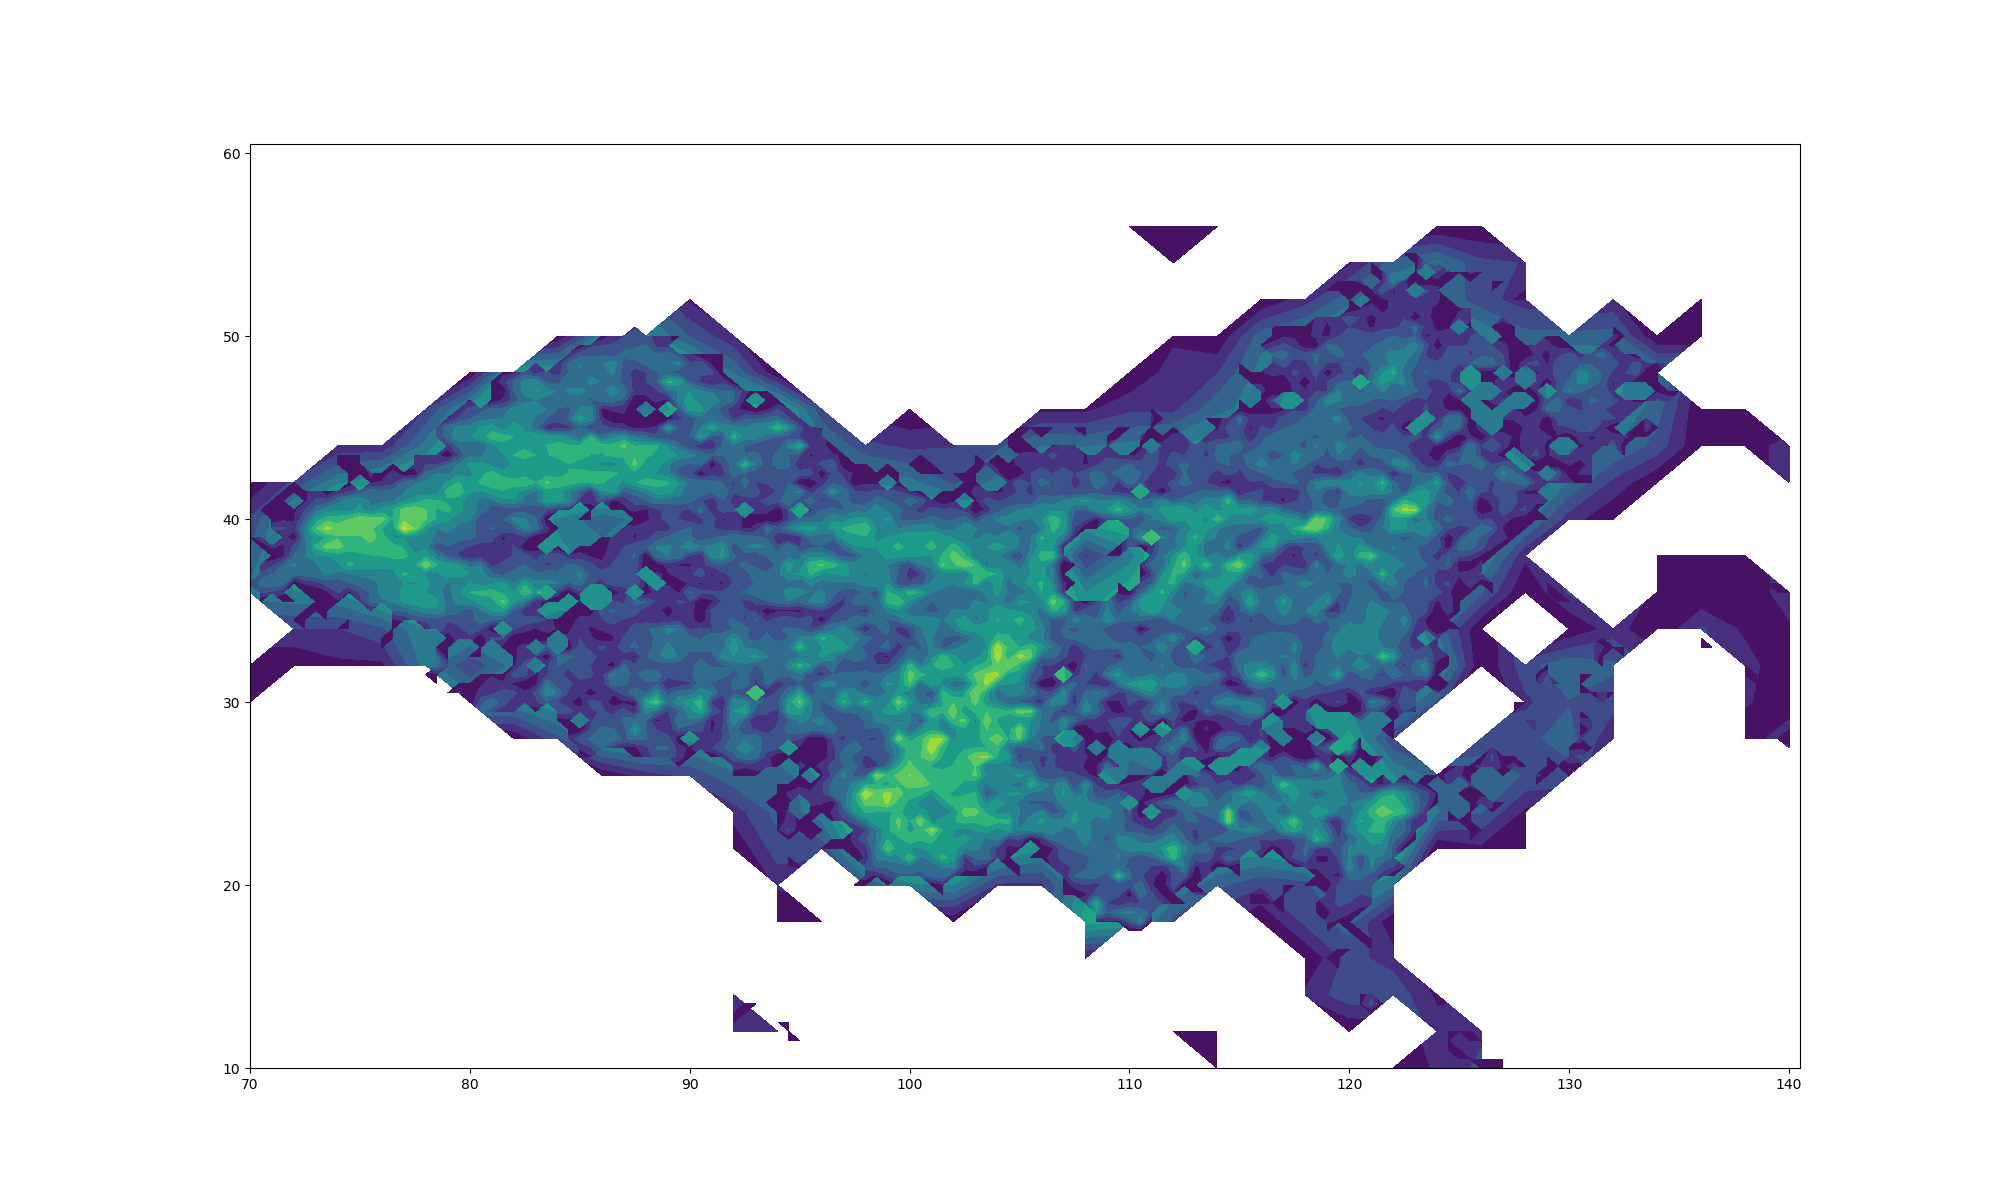
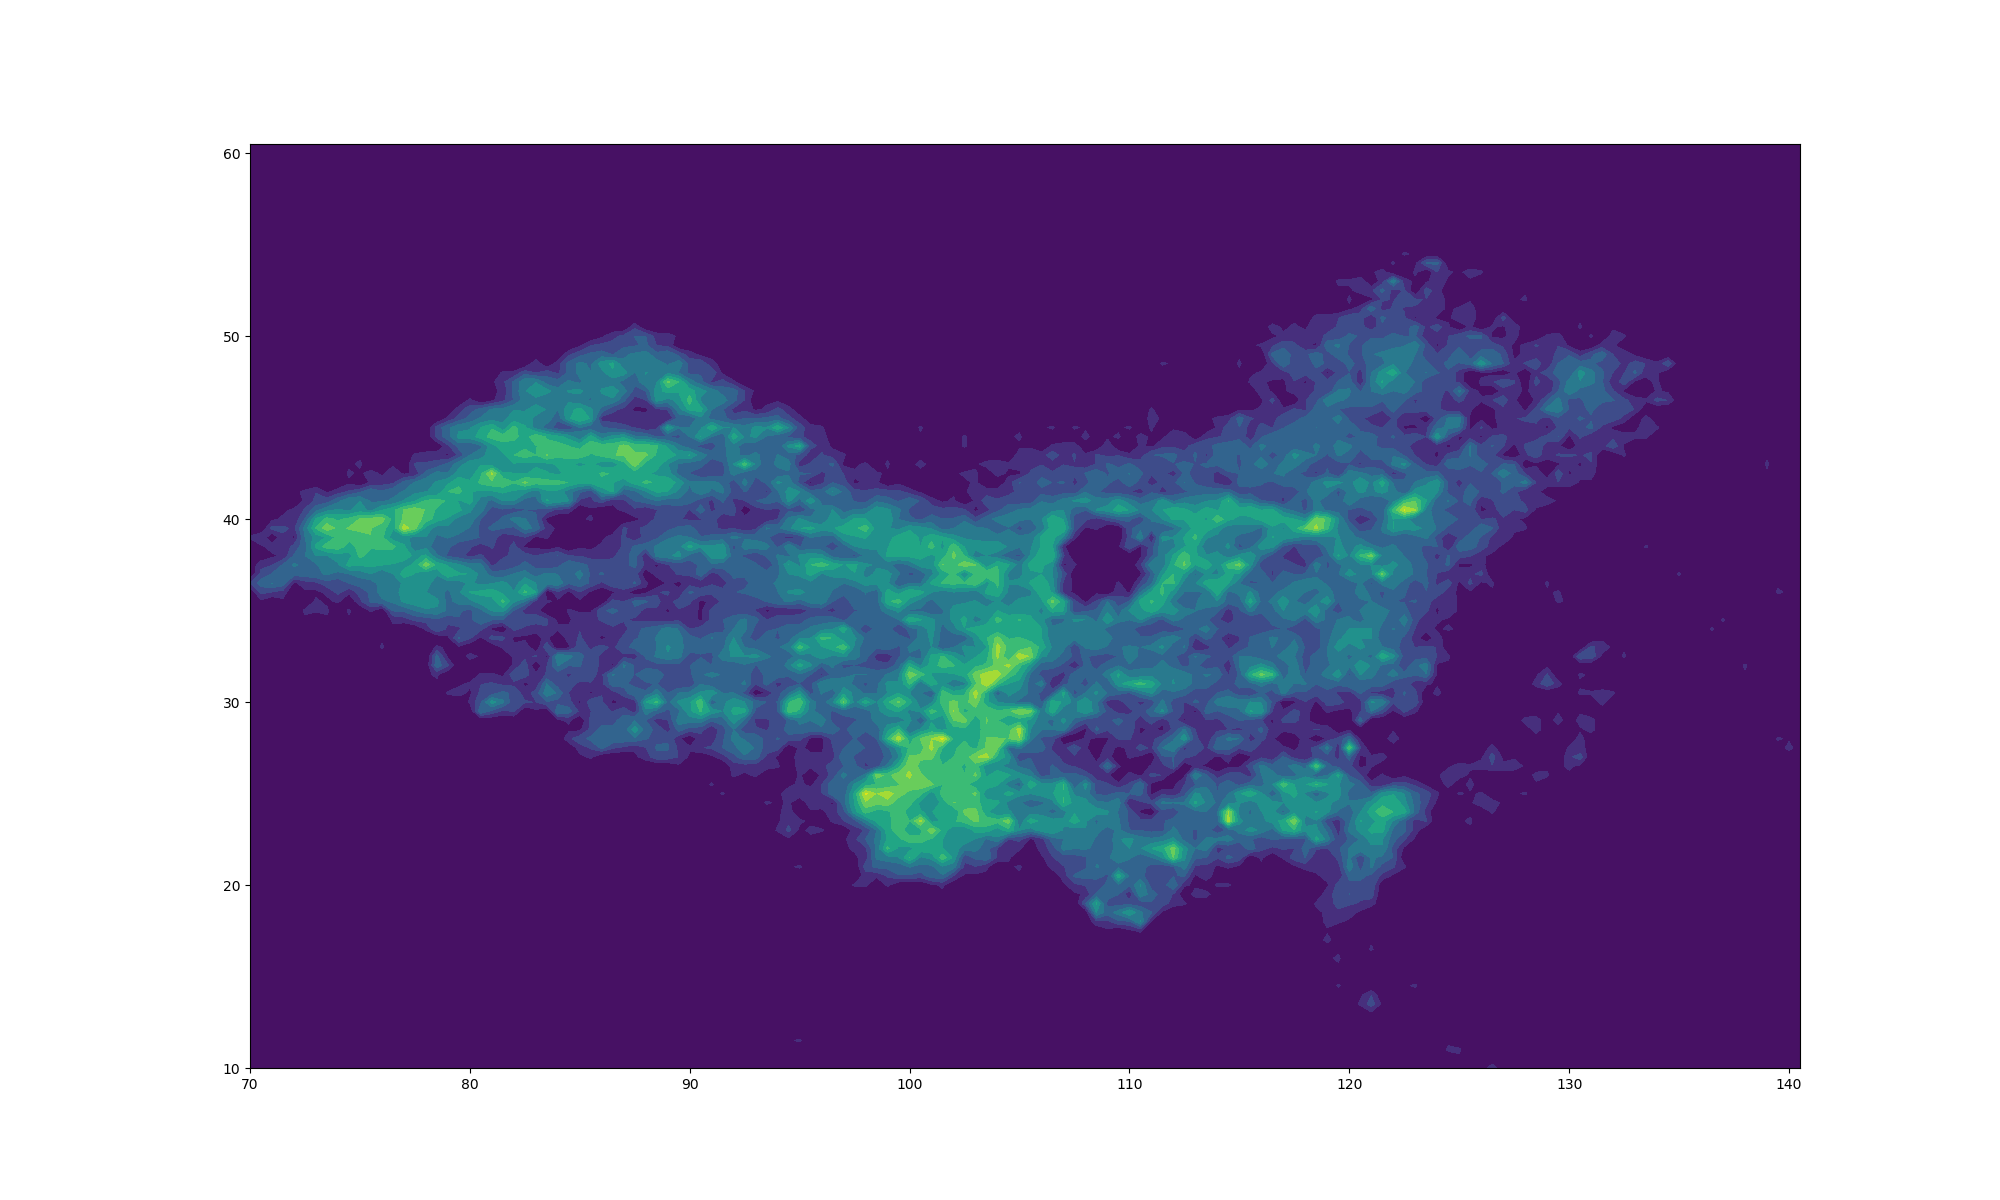
edkit ml heatmap

diff --git a/src/edkit/ml_testing.py b/src/edkit/ml_testing.py
@@ -95,25 +95,65 @@ ml_outFile_mt_1="testing\ml_mt01.png"
 ml.mlDraw_mt__easy(data1b,ml_outFile_mt_1)
 '''
 
+'''
+#t430****
+#sDataPath_t430="E:\_qsync.1\_1"
+#infile_ml_1965=os.path.join(sDataPath_t430,"ml","ml_1965_2018.sfml2")
+#data1=ml.ml_Read_sfml2(infile_ml_1965)
 
-#data1=ml.mlLoad_ml_1965(sDataPath)
-sDataPath_t430="E:\_qsync.1\_1"
-infile_ml_1965=os.path.join(sDataPath_t430,"ml","ml_1965_2018.sfml2")
-data1=ml.ml_Read_sfml2(infile_ml_1965)
+#d30****
+data1=ml.mlLoad_ml_1965(sDataPath)
+
 print(len(data1))
 data1a=ml.mlFilter_sfml2_lonlat(data1,70,140,10,60)
 print(len(data1a))
 
-data1b=ml.mlFilter_sfml2_m(data1a,1.9)
+data1b=ml.mlFilter_sfml2_m(data1a,0.9)
 #print(len(data1b))
 
-ml_outFile_grid_count_1="testing\ml_grid_count20.png"
-ml.mlDraw_Grid_count(data1b,ml_outFile_grid_count_1,70,140,2,10,60,2)
-ml_outFile_grid_count_2="testing\ml_grid_count05.png"
-ml.mlDraw_Grid_count(data1b,ml_outFile_grid_count_2,70,140,0.5,10,60,0.5)
+ml_outFile_grid_count_20="testing\ml_grid_count20.png"
+ml.mlDraw_Grid_count(data1b,ml_outFile_grid_count_20,70,140,2,10,60,2)
+ml_outFile_grid_count_10="testing\ml_grid_count10.png"
+ml.mlDraw_Grid_count(data1b,ml_outFile_grid_count_10,70,140,1,10,60,1)
+ml_outFile_grid_count_05="testing\ml_grid_count05.png"
+ml.mlDraw_Grid_count(data1b,ml_outFile_grid_count_05,70,140,0.5,10,60,0.5)
 print(len(data1b))
+'''
 
-        
+'''
+#SC-YN
+data1=ml.mlLoad_ml_1965(sDataPath)
+print(len(data1))
+data1c=ml.mlFilter_sfml2_lonlat(data1,90,110,20,35)
+print(len(data1c))
+ml_outFile_grid_count_20="testing\ml_grid_count20-scyn.png"
+ml.mlDraw_Grid_count(data1c,ml_outFile_grid_count_20,90,110,2,20,35,2)
+ml_outFile_grid_count_10="testing\ml_grid_count10-scyn.png"
+ml.mlDraw_Grid_count(data1c,ml_outFile_grid_count_10,90,110,1,20,35,1)
+ml_outFile_grid_count_05="testing\ml_grid_count05-scyn.png"
+ml.mlDraw_Grid_count(data1c,ml_outFile_grid_count_05,90,110,0.5,20,35,0.5)
+
+ml_outFile_grid_count_02="testing\ml_grid_count02-scyn.png"
+ml.mlDraw_Grid_count(data1c,ml_outFile_grid_count_02,90,110,0.2,20,35,0.2)
+
+ml_outFile_grid_count_01="testing\ml_grid_count01-scyn.png"
+ml.mlDraw_Grid_count(data1c,ml_outFile_grid_count_01,90,110,0.1,20,35,0.1)
+'''
+   
+''' 
+#XX
+data1=ml.mlLoad_ml_1965(sDataPath)
+print(len(data1))
+data1c=ml.mlFilter_sfml2_lonlat(data1,90,110,20,35)
+print(len(data1c))
+ml_heatmap_count_10="testing\ml_heatmap_count10-scyn.png"
+ml.mlDraw_Heatmap_count(data1c,ml_heatmap_count_10,90,110,1,20,35,1)
+ml_heatmap_count_05="testing\ml_heatmap_count05-scyn.png"
+ml.mlDraw_Heatmap_count(data1c,ml_heatmap_count_05,90,110,0.5,20,35,0.5)
+'''
+
+
+     
 ####running...
 #883603-->880219-->870996 -> 867673 (--> 868478)
 #ml_Convert_csv_to_sfml2("china_ml.csv","ml_1965_2018.sfml2")

diff --git a/src/edkit/ml.py b/src/edkit/ml.py
@@ -283,7 +283,8 @@ def mlDraw_Grid_count(data1,outFile,xi=10,xx=170,stepLon=1,yi=0,yx=70,stepLat=1)
     #10-170,0-70
     xm,ym=np.meshgrid(np.arange(xi,xx+1,stepLon),np.arange(yi,yx+1,stepLat))
     #ym,xm=np.meshgrid(np.arange(xi,xx,stepLon),np.arange(yi,yx,stepLat)) #??70,160 -> 160,70   xx
-    zm=np.zeros(xm.shape,dtype=float)
+    #zm=np.zeros(xm.shape,dtype=float) xx log10(0.0)=inf
+    zm=np.ones(xm.shape,dtype=float) 
     
     for i,d1 in enumerate(data1):
         lon=float(d1[7])
@@ -325,5 +326,30 @@ def mlDraw_Grid_count(data1,outFile,xi=10,xx=170,stepLon=1,yi=0,yx=70,stepLat=1)
     '''    
     
     
+def mlDraw_Heatmap_count_XX(data1,outFile,xi=10,xx=170,stepLon=1,yi=0,yx=70,stepLat=1):
+    xm,ym=np.meshgrid(np.arange(xi,xx+1,stepLon),np.arange(yi,yx+1,stepLat))
+    zm=np.ones(xm.shape,dtype=float) 
     
+    for i,d1 in enumerate(data1):
+        lon=float(d1[7])
+        lat=float(d1[6])
+        lonIdx=int((lon-(xi-stepLon/2))/stepLon)
+        latIdx=int((lat-(yi-stepLat/2))/stepLat)
+        zm[latIdx][lonIdx]+=1
+
+    zm2=np.log10(zm)    
+    '''
+    #flip up/down
+    row=zm2.shape[0]    
+    for i in range(row // 2):
+        zm2[i], zm2[row-1-i] = zm2[row-1-i], zm2[i]  
+    '''    
+    plt.imshow(zm2)
+        
+    fig = plt.gcf()
+    fig.set_size_inches(20, 12)  
+    plt.savefig(outFile)
+    
+
+       
     
